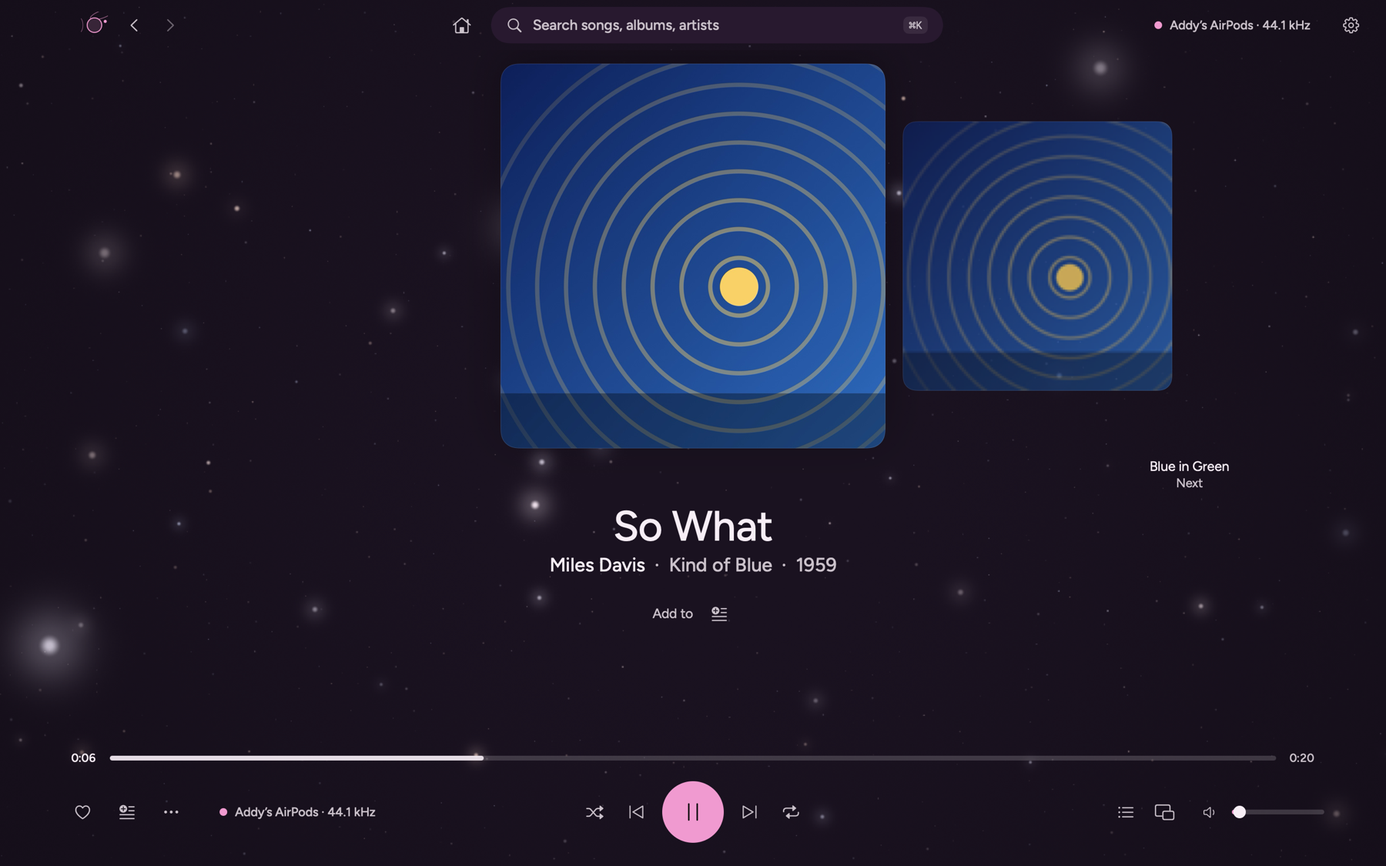
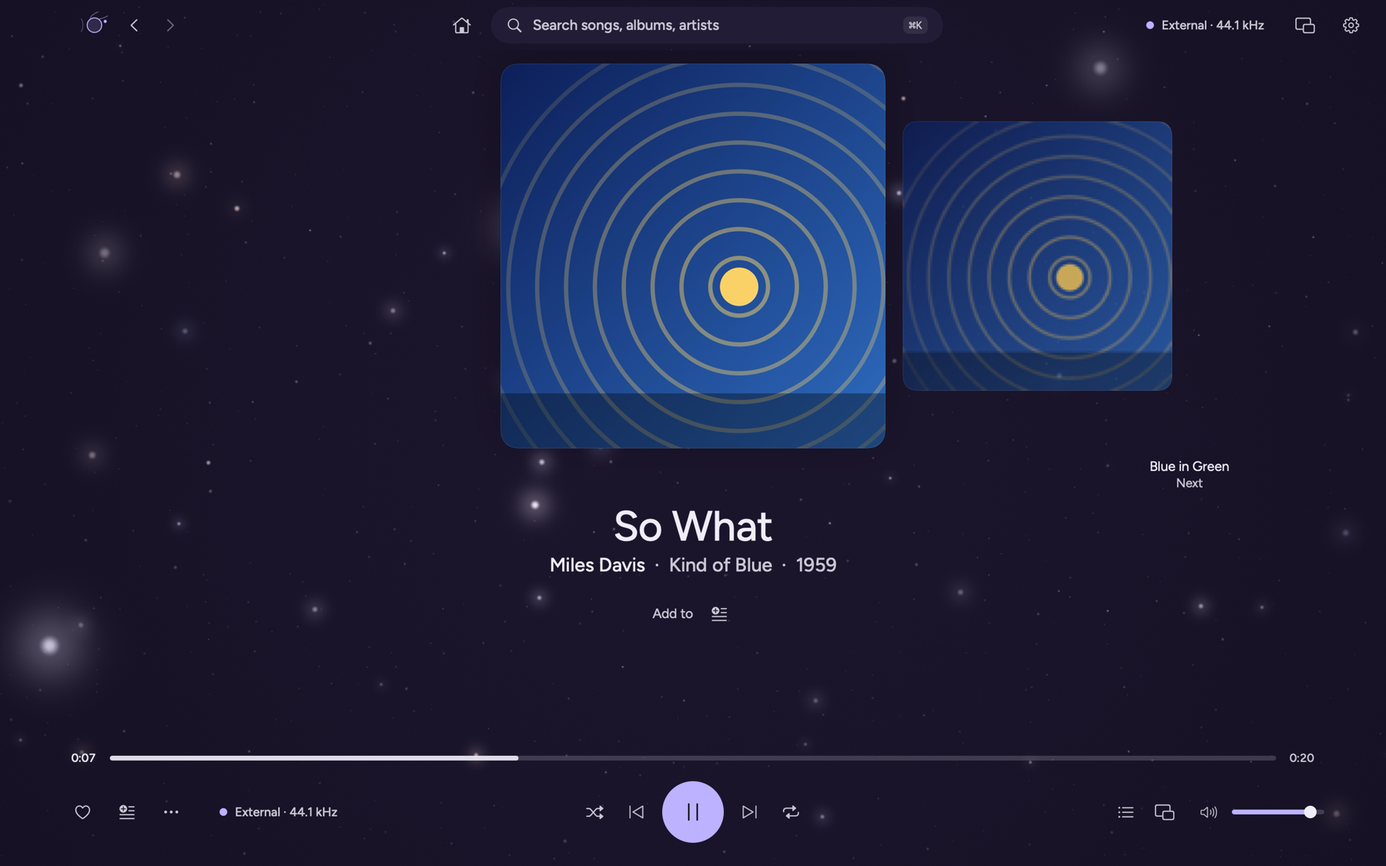
Docs and screenshots for the thirteen colours, the rail, pop-ups, seek bar and the mini player

diff --git a/Docs/PULSE-DESIGN.md b/Docs/PULSE-DESIGN.md
@@ -8,53 +8,89 @@ interface from the same numbers. On the Mac the values live in `Sources/Aureon/G
 
 | Part | Size / behaviour |
 |---|---|
-| Top bar | 56 pt. Window buttons, the mark, Back and Forward, **Home**, an always-visible search pill (460 wide, 38 high, ⌘K / Ctrl+K), the output chip (device and rate; opens the quick controls), Settings. |
-| Rail | 72 wide, five items: Library, Playlists, Radio, Rooms, Sound. A symbol over a 11 pt label; the selected item sits on a raised plate (radius 12). Home and Settings are not on the rail. |
+| Top bar | 56 pt. Window buttons, the mark, Back and Forward, **Home**, an always-visible search pill (460 wide, 38 high, ⌘K / Ctrl+K), the output chip (device and rate; opens the quick controls), the **Mini player** button (⌥⌘M) and Settings. On Now Playing it stays in view unless the listener turns on "Hide the controls when the pointer rests" (then it fades after 3.5 s without the pointer and returns on movement). |
+| Rail | 72 wide, six items: Library, Playlists, Radio, **Podcasts** (a microphone), Rooms, Sound. A symbol over a 11 pt label (items 60 × 58, 6 pt apart); the selected item sits on a raised plate (radius 12). Radio shows stations only; Podcasts is its own page. Home and Settings are not on the rail. |
 | Main panel | Rounded (16), on the window colour; the pages of a destination are pill chips along its top (Library: Albums, Artists, Songs, Composers, Works, Conductors, Ensembles, Folders, Deep Dive). |
 | Queue | A rounded panel (340 wide) beside the main panel with three tabs (a pill switch under the title): **Queue** (add, clear, drag to reorder, ⌫ removes), **History** (songs played since the app opened, newest first, 200 at most, a click plays one again, a trash button clears it) and **Output** (the device and its rate, then the steps Source → Player → Output from the signal path, and a link to the output settings). |
 | Player bar | 96 pt, three columns: cover 68 (radius 10), title 16 medium with the heart and add-to-playlist beside it, artist 14, format tags; transport (shuffle, previous, a 46 pt accent play circle, next, repeat) with a 5 pt slider; lyrics, queue, output, volume (96 wide). |
-| Now Playing | The whole window. The bar rests after 3.5 s without the pointer. Six layouts (below). |
+| Now Playing | The whole window. The top bar and the controls stay in view (a setting lets them rest after 3.5 s without the pointer). Six layouts (below). |
 
 Corners: panel 16, card 14, control 10, tag 6, pills fully round. Spacing on an 8 pt grid. Hairlines: the ink at 14 % (18 % on light themes).
 
 ## Colours
 
-Five **families**, each with a **dark** half and a **light** half. A family is chosen once; the **mode** (Dark, Light or Auto) picks the half; a **Pure black**
-switch puts any dark half on a black window. Every theme is five colours: window / panel / raised surface / ink / accent (hex).
+Thirteen **families**: a true-black **AMOLED** (dark only) and twelve colours, each with a **dark** half and a **light** half. A family is chosen once; the **mode**
+(Dark, Light or Auto) picks the half; a **Pure black** switch puts any dark half on a black window; one **Brightness** slider lightens or darkens the surfaces. The
+colours are one table (`ThemeTable.swift`); there is no code per theme. Each half is ten colours (hex).
 
-| Family | Dark: window | panel | raised | ink | accent | Light: window | panel | raised | ink | accent |
+**Dark halves**
+
+| Family | window | panel | raised | step 3 | line | text | secondary | tertiary | accent | on accent |
 |---|---|---|---|---|---|---|---|---|---|---|
-| Graphite (default) | 0C0C0E | 161619 | 222227 | F6F3EC | F2B84B | C0BEB6 | CBC9C1 | B5B3AA | 201D18 | 6A4300 |
-| Midnight | 080B14 | 0F1424 | 1A2036 | EEF2FF | 7FA6FF | B4BDCB | C2CAD6 | A6B0C0 | 121827 | 2F4F9E |
-| Forest | 0A110D | 111B15 | 1B2A21 | EEF4EA | 9ED38A | B9C0B2 | C5CCBE | ABB3A3 | 181D16 | 2B5436 |
-| Plum | 100A12 | 1A1220 | 28192F | F7EEF6 | F09AD0 | C4BBC9 | D0C8D5 | B6ACBC | 1E1424 | 7A2E6E |
-| Cocoa | 120D0A | 1D1511 | 2B201A | F6EEE6 | F0A36B | CAC0AC | D4CBB8 | BDB39E | 1E1913 | 7E3418 |
+| AMOLED | 000000 | 0A0A0C | 121215 | 1A1A1E | 26262B | F5F5F7 | ADB1B8 | 898C92 | 96C9FE | 06070A |
+| Graphite | 0D1014 | 161A1F | 1E2227 | 282C31 | 34383E | EDEEF1 | AFB1B5 | 84868B | 89C3FE | 141619 |
+| Midnight | 070F20 | 10192D | 172137 | 202B42 | 2C3850 | EAEFF8 | AAB1C0 | 7E8697 | 91C1FF | 0F1720 |
+| Ocean | 001319 | 011E24 | 06262D | 103038 | 1D3D45 | E6F1F3 | A4B5B9 | 768A8F | 28D6DF | 0A191A |
+| Forest | 061308 | 0E1E11 | 152619 | 1E3022 | 2B3D2E | EAF1EB | AAB4AB | 7E8A80 | 7BD77F | 111811 |
+| Mint | 01140E | 071E18 | 0E2720 | 183129 | 243E36 | E8F1EE | A7B5B0 | 7A8A85 | 51DAA7 | 0E1914 |
+| Plum | 180A16 | 231322 | 2C1B2B | 372435 | 443042 | F3ECF2 | B9ADB7 | 8F818D | F897E4 | 1C131A |
+| Violet | 110B20 | 1B152C | 231C36 | 2D2642 | 3A334F | EFEDF8 | B2AEC0 | 878397 | BCB2FF | 161421 |
+| Rose | 1B090D | 281217 | 31191F | 3C2329 | 4A2F35 | F6EBED | BDACAF | 948084 | FE9EAD | 1E1214 |
+| Ember | 1D0903 | 29120A | 331A11 | 3E231A | 4C3026 | F7ECE8 | BFADA7 | 95817A | FFA47A | 1F130D |
+| Cocoa | 180C05 | 23160D | 2D1E14 | 37271D | 443429 | F4EDE9 | B9AFA8 | 8F847C | F3AD66 | 1B150F |
+| Dune | 150E03 | 1F180A | 282111 | 322A1A | 3F3726 | F1EEE8 | B5B1A7 | 8B867A | DCBA5C | 19160E |
+| Slate | 091016 | 121B21 | 19232A | 222D34 | 2F3A41 | EBEFF2 | ACB2B7 | 80878D | 7AC8F5 | 12171A |
+
+**Light halves** (AMOLED has none: in Light mode it shows Graphite's light half)
+
+| Family | window | panel | raised | step 3 | line | text | secondary | tertiary | accent | on accent |
+|---|---|---|---|---|---|---|---|---|---|---|
+| Graphite | F4F7FB | EEF0F4 | E5E8EC | DCDEE2 | CBCED2 | 181B1F | 4A4D53 | 60636A | 0065B0 | F4F9FE |
+| Midnight | F3F7FE | E9F0FF | E1E8F8 | D7DEEE | C7CEDD | 121A2B | 424D64 | 58637B | 0061BE | F5F9FE |
+| Ocean | EAFAFE | E2F4F9 | DAECF0 | D0E2E6 | C0D1D6 | 061E24 | 365259 | 4C6970 | 007176 | F1FBFB |
+| Forest | EFFAF1 | E8F4EA | E0EBE2 | D6E1D8 | C6D1C8 | 111E14 | 415244 | 57695A | 01791E | F4FAF4 |
+| Mint | ECFBF5 | E5F4EF | DDECE6 | D3E2DD | C3D2CC | 0C1F19 | 3C534B | 516961 | 007654 | F3FBF7 |
+| Plum | FFF2FD | F8ECF7 | F0E3EE | E6D9E4 | D6C9D4 | 231522 | 594657 | 6F5C6D | 983488 | FDF6FB |
+| Violet | F7F5FF | F1EDFE | E9E5F7 | DFDBED | CECBDD | 1C172B | 4F4863 | 655E7B | 6649BE | F8F7FF |
+| Rose | FFF4F6 | FDEBEE | F5E3E6 | EBD9DC | DAC9CC | 271419 | 5F454A | 765B60 | AF234C | FFF6F7 |
+| Ember | FFF4F1 | FEECE5 | F6E3DD | ECD9D3 | DCC9C3 | 29150D | 61463C | 785C52 | A24100 | FFF6F3 |
+| Cocoa | FEF5EF | F9EEE7 | F0E5DF | E6DCD5 | D6CBC5 | 231810 | 59493F | 705F55 | 8E5300 | FDF7F2 |
+| Dune | FBF6EC | F5F0E5 | ECE7DD | E3DDD3 | D2CDC3 | 201A0D | 544C3C | 6A6252 | 7A6001 | FBF8F1 |
+| Slate | F1F8FD | EAF1F6 | E2E9EE | D8DFE4 | C8CFD4 | 141C21 | 444F56 | 5A656D | 006C97 | F2FAFE |
+
+Graphite is the default and opens in Dark with its own blue accent; each family's accent is its own until an accent is chosen. The picker lists AMOLED first, then the
+others in the order of the tables.
 
 Theme ids are the family name for the dark half (`graphite`), the name with `.light` for the light half (`graphite.light`) and the name with `.black` for the dark
-half on pure black (`graphite.black`). The light halves are named in the interface only as "the light side of Graphite" and so on.
+half on pure black (`graphite.black`; AMOLED is already black and has no such id).
 
 - **Mode.** *Dark* always shows the dark half, *Light* the light half, *Auto* follows the system's appearance and changes live when it changes (no restart). The
   order in Settings is Dark, Light, Auto. The command "Switch between light and dark" (⌘K) goes to the other half of the same family, with a soft circular reveal.
-- **Pure black** (a switch, off by default, shown above the colour tiles; it affects only the dark half, in Dark and in Auto at night). The window is `000000`; the
-  panel is the dark panel colour mixed 55 % towards black; the raised surface is the dark raised colour mixed 32 % towards black; ink and accent are unchanged, so the
-  family's tint stays. Resulting panel / raised: Graphite 0A0A0B / 17171B, Midnight 070910 / 121625, Forest 080C09 / 121D16, Plum 0C080E / 1B1120, Cocoa 0D0908 / 1D1612.
-- **Light brightness**: a slider from 0 to 1, 0.35 by default (the table). Above it the light surfaces are mixed towards white by `(b − 0.35) × 0.55`, below it
-  towards black by `(0.35 − b) × 0.2`. It is shown whenever the mode is Light or Auto. The light halves are muted on purpose: no light panel is brighter than a soft grey.
+- **Pure black** (a switch, off by default, shown above the colour tiles; it affects only the dark half, in Dark and in Auto at night; AMOLED is unaffected). The
+  window is `000000`; the panel is the dark panel colour mixed 55 % towards black, the raised surface 32 %, step 3 25 % and the line 20 %; the text and the accent are
+  unchanged, so the family's tint stays.
+- **Brightness** (one slider, −1 … +1, 0 is the design; it applies to every colour, dark and light). The window, panel, raised surface, step 3 and line all move by the
+  same amount of perceived lightness: `slider × 0.04` in OKLab L (the perceptual lightness of OKLCH), keeping each colour's hue and chroma. The window's lightness is
+  held to 0.10 … 0.26 in dark halves and 0.90 … 0.995 in light halves, and the step is halved until the text still reads at 7:1 on every surface. The text and the
+  accent never move. On a true-black window (AMOLED, or any dark half on pure black) the window stays #000000 and only the surfaces above it move: up by `slider × 0.03`
+  (down by `slider × 0.012`).
 - **Accent**: a free colour picker; each theme's own accent is used until one is chosen. Text in the accent is nudged until it reads at 4.5:1 on every surface
   (towards white on dark themes, towards black on light ones); the label on a solid accent is black or white, whichever reads better. The second end of an
   accent gradient is the same hue turned 4 % and 14 % darker.
 - **Secondary and tertiary text** are the ink at the lowest opacity that still gives 7:1 and 4.5:1 on every surface.
-- **Contrast is checked for every family in every mode**: dark, light at brightness 0, 0.35 and 1, and pure black, with the designed accent and with eight picked
-  hues. Ink must reach 6.5:1 on every surface, tertiary text and accent text 4.5:1, a solid accent's label 4.5:1, a designed accent 3:1 on its surfaces.
+- **Contrast is checked for every family in every mode and at the ends of the brightness slider** (and with eight picked accent hues, and on pure black). The table
+  itself must give: text 7:1 on the window and the surfaces, secondary text 4.5:1, tertiary text 3:1, the accent 3:1, the label on a solid accent 4.5:1; and the
+  derived text colours must reach 7:1 / 4.5:1 on every surface after any adjustment.
 - **Backdrop** per half of a family (the dark half and pure black share one): Flat, Soft (a quiet two-tone wash), Album (the cover, blurred) or Starlight. Dark
   halves open on Starlight, light halves on Soft. A cover-coloured veil on Full-bleed follows the theme's panel colour.
 - **A fresh install** opens in Graphite, Dark, with the designed accent.
-- **Settings page** (Settings → Appearance), top to bottom: Mode (Dark / Light / Auto), the Pure black switch, the colour tiles, Light brightness (when Light or Auto),
-  Accent, Density, Font and Text size, Backdrop, Page transitions, Scroll to change volume, Launch. Each colour tile is split down the middle: the dark half on the
-  left, the light half on the right, each a miniature of the shell (rail, panel, title, tag and player bar); the chosen family has an accent outline and a tick.
-- **Carried over from earlier builds** (the nine-theme model, applied once when no new choice is saved): Graphite → Graphite, Dark; AMOLED → Graphite, Dark with
-  Pure black; Midnight, Forest, Plum and Cocoa → the same family, Dark; Stone → Graphite, Light; Sage → Forest, Light; Paper → Cocoa, Light. If the old appearance was
-  Auto the mode stays Auto and the family is that of the old dark choice.
+- **Settings page** (Settings → Appearance), top to bottom: Mode (Dark / Light / Auto), the Pure black switch, the colour tiles, Brightness, Accent, Density, Font and
+  Text size, Backdrop, Page transitions, Scroll to change volume, Launch. Each colour tile is split down the middle (dark half on the left, light half on the right,
+  each a miniature of the shell: rail, panel, title, tag and player bar, drawn from the real colours and the current brightness); the chosen family has an accent
+  outline and a tick; AMOLED fills its tile and says "dark only".
+- **Carried over from earlier builds** (applied once when no new choice is saved): Graphite, Midnight, Forest, Plum and Cocoa keep their name; AMOLED is AMOLED; Stone →
+  Graphite, Light; Sage → Forest, Light; Paper → Cocoa, Light. If the old appearance was Auto the mode stays Auto and the family is that of the old dark choice. A saved
+  light-only brightness (0 … 1, 0.35 the old design) becomes the new slider position `(old − 0.35) × 2`.
 
 ## Type
 
@@ -109,8 +145,8 @@ leaves (it is then on the left), the volume slider shrinks to 60 %, then goes; t
 than the layout's design size) and what does not fit — lyrics, Up next, credits — shrinks or scrolls inside the body. The rule that must hold at every size and with
 lyrics on or off: the dock is inside the window and uncovered, and nothing in the body touches the dock, the tag row or the heart / playlist / More buttons.
 
-**Margins**: `max(28, 64 × scale)` left and right; the dock sits 14 × scale above the bottom edge. The bar of controls fades after 3.5 s without the pointer and
-returns on movement; the controls stay clickable while visible.
+**Margins**: `max(28, 64 × scale)` left and right; the dock sits 14 × scale above the bottom edge. The controls stay in view; with "Hide the controls when the pointer rests" on, they and the top
+bar fade after 3.5 s without the pointer and return on movement.
 
 - **Stage** (default): tabs **Lyrics / Up next / Credits / Signal path** across the top, 46 pt centred lyrics in the middle, the waveform seek bar, the song
   (cover 120, title 30) at the foot of the dock's left side. Lyrics off: credits at the left, a 420 cover with its names in the middle, up next at the right.
@@ -141,7 +177,7 @@ Five layouts: Compact bar 520 × 96, Thin strip 520 × 48, Card 380 × 620, Card
 others (an option), can follow to every desktop, remembers its place, and its opacity is a setting (40–100 %). Backgrounds: Solid, Gradient (from the cover's colour),
 Blur and glow; a strength slider. Live preview only while that settings page is open. The menu bar item shows the logo, the logo and title, or the title; the popover
 opens on click or on hover, closes on a click elsewhere, closes by itself after Never / 3 / 5 / 10 / 30 s (5 by default) and waits while the pointer is over it.
-*Mac only*: the menu bar item; on Windows the same popover belongs to the notification area.
+*Mac only*: the menu bar item; on Windows the same popover belongs to the notification area. The app must keep running while the mini player is the only thing on screen (the main window is put away, not closed). Position: remembered for each display, by the display's identity; the window is kept wholly on the screen it is mostly on (after a drag and at the next open). A drag starts on the cover, the names or any empty space; buttons, the seek bar and the volume have their own gestures and never move the window.
 
 ## Memory
 
@@ -155,10 +191,24 @@ display**; the output device; the theme and look; the Now Playing layout; the mi
 - **Windows**: a native application with the same tokens, layouts and behaviours; the web interface is not the design. Window glass and the menu bar item map to
   the platform's equivalents (acrylic, the notification area).
 
+## Pop-ups
+
+Every pop-up (the output list from the top bar, the player bar and Now Playing; Add to playlist; shuffle; quality details; folder actions; speaker set-up; DSP
+plug-ins; the DJ layout; Home's "Why these?") is a card drawn inside the window, never a separate window that could hang over the desktop. It opens on the preferred
+side of its button (above for the player bar, below for the top bar), flips to the other side when there is no room, is moved so that all of it is inside the window
+(8 pt margin), and scrolls inside the window when it is taller than the window. One is open at a time; a click anywhere else, or Escape, closes it. Card: the panel
+colour, a hairline, radius 14, a soft shadow.
+
+## Seek bar
+
+One choice in Settings → Now Playing → Seek bar applies to every seek bar (player bar, mini player, every Now Playing layout): *Layout's own* (each place keeps its
+style), *Waveform* (a waveform replaces the thin track where there is one; places that already draw a waveform keep theirs) or *Line* (the thin 5 pt track with a 13 pt
+thumb everywhere). It changes at once. Pressing or dragging on the bar seeks; the scroll wheel nudges.
+
 ## Settings pages
 
-Settings has a search field and nine pages: General, **Appearance** (colours, accent, density, type, backdrop, motion, volume scrolling, launch), **Now Playing**
-(layout previews, lyrics: show, size, timing, lookup choices; what else shows: Add to playlist button, credits, signal path and tags, seek bar style), **Mini player**
+Settings has a search field and nine pages: General, **Appearance** (mode, pure black, the colours, brightness, accent, density, type, backdrop, motion, volume scrolling, launch), **Now Playing**
+(layout previews, lyrics: show, size, timing, lookup choices; what else shows: Add to playlist button, credits, signal path and tags, whether the controls rest, seek bar style), **Mini player**
 (form, background, strength, opacity, always on top, every desktop, remember place, keep floating, hide the Aureon window; menu bar item and popover timing),
 **Startup & memory** (resume mode and what is remembered), Pages (which pages are on the rail), Connect, MIDI and System.
 

diff --git a/README.md b/README.md
@@ -32,7 +32,7 @@ switch them on; when they are off they are out of the path, not set to neutral.
 |  |  |  |
 |:--|:--|:--|
 | **Bit-perfect by default**<br/>FLAC, ALAC, WAV and AIFF at their native rate and depth, gapless, with exclusive mode and automatic rate switching. | **Sound shaping, opt-in**<br/>Sinc upsampling, PCM→DSD up to DSD512, EQ, AutoEQ, crossfeed, room correction and dither. | **Signal path**<br/>Shows every stage, and marks the first one that changes a sample. |
-| **New interface**<br/>Five colours in dark and light, six Now Playing layouts, a mini player and a menu bar player. | **Speaker levelling**<br/>Each output gets a job, a level and a delay, and the levels follow the volume. | **DJ console**<br/>Two decks, BPM and key detection, loops, hot cues, effects, crossfader, headphone cue and MIDI controllers. |
+| **New interface**<br/>Thirteen colours in dark and light, with a true-black AMOLED, six Now Playing layouts, a mini player and a menu bar player. | **Speaker levelling**<br/>Each output gets a job, a level and a delay, and the levels follow the volume. | **DJ console**<br/>Two decks, BPM and key detection, loops, hot cues, effects, crossfader, headphone cue and MIDI controllers. |
 
 <br/>
 
@@ -40,10 +40,10 @@ switch them on; when they are off they are out of the path, not set to neutral.
 
 | | |
 |:--|:--|
-| **New design** | A new shell with a search bar, an output chip and a rail of five places. Set in Figtree, with Compact and Comfortable density. |
-| **Colours** | Graphite, Midnight, Forest, Plum and Cocoa, each in dark and light. **Dark**, **Light** or **Auto** (follows macOS), a **Pure black** switch for OLED, any accent colour, and the Starlight backdrop. |
+| **New design** | A new shell with a search bar, an output chip and a rail of six places (Library, Playlists, Radio, Podcasts, Rooms, Sound). Set in Figtree, with Compact and Comfortable density. |
+| **Colours** | A true-black **AMOLED** and twelve colours (Graphite, Midnight, Ocean, Forest, Mint, Plum, Violet, Rose, Ember, Cocoa, Dune, Slate), each in dark and light. **Dark**, **Light** or **Auto** (follows macOS), a **Pure black** switch, one **Brightness** slider, any accent colour, and the Starlight backdrop. |
 | **Now Playing** | Six layouts (Stage, Classic, Full-bleed, Carousel, Lumen, Chillax) with the transport, seek bar, queue and volume always in view. Add to playlist, credits, large synced lyrics. |
-| **Mini player** | A floating player in five forms, dragged by its body, that takes the place of the main window, and a menu bar player with a popover. |
+| **Mini player** | A floating player in five forms, dragged from anywhere on it, that takes the place of the main window, and a menu bar player with a popover. |
 | **Memory** | Reopens with your queue, song and position, page, window place on each display, output, theme and layout. |
 | **Home and Folders** | A Home that follows the time of day, and a Folders page that can remove a library folder safely. |
 | **Queue** | Queue, History and Output in one panel. |
@@ -64,7 +64,7 @@ The full list, with fixes, is in the [release notes](RELEASE-NOTES-0.4.0.md).
 <td width="50%"><img src="Docs/images/pulse/now-playing-carousel.png" alt="Now Playing in the Carousel layout" /><br/><sub><b>Carousel.</b> The cover among its neighbours.</sub></td>
 </tr>
 <tr>
-<td width="50%"><img src="Docs/images/pulse/settings-appearance.png" alt="Settings, Appearance: mode, pure black and the five colour families" /><br/><sub><b>Appearance.</b> Dark, Light or Auto, Pure black, and five colours shown in both halves.</sub></td>
+<td width="50%"><img src="Docs/images/pulse/settings-appearance.png" alt="Settings, Appearance: mode, pure black and the colour families" /><br/><sub><b>Appearance.</b> Dark, Light or Auto, Pure black, AMOLED and twelve colours shown in both halves, and one brightness slider.</sub></td>
 <td width="50%"><img src="Docs/images/pulse/queue-light.png" alt="The queue panel with Queue, History and Output tabs" /><br/><sub><b>Queue.</b> With History and Output beside it.</sub></td>
 </tr>
 </table>
@@ -109,14 +109,14 @@ takes no locks and sends no Swift or Objective-C messages. See [Docs/ARCHITECTUR
 
 | | |
 |:--|:--|
-| **Shell** | A search bar (⌘K reaches every page and main action), the output chip, and a rail of five places: Library, Playlists, Radio, Rooms and Sound. A quick control panel opens from the output chip (⌥⌘D). |
-| **Colours** | Five families (Graphite, Midnight, Forest, Plum, Cocoa), each with a dark and a soft light side. **Dark**, **Light** or **Auto**, **Pure black** for any dark side, any accent colour, and a brightness control for the light sides. |
+| **Shell** | A search bar (⌘K reaches every page and main action), the output chip, the mini player button and Settings across the top, and a rail of six places: Library, Playlists, Radio, Podcasts, Rooms and Sound. A quick control panel opens from the output chip (⌥⌘D); every pop-up opens inside the window and never over its edge. |
+| **Colours** | A true-black **AMOLED** and twelve families (Graphite, Midnight, Ocean, Forest, Mint, Plum, Violet, Rose, Ember, Cocoa, Dune, Slate), each with a dark and a light side. **Dark**, **Light** or **Auto**, **Pure black** for any dark side, one **Brightness** slider that lightens or darkens the surfaces in every colour (text and accent stay put), and any accent colour. |
 | **Backdrops** | Flat, Soft, **Album** (colours from the playing cover, at Subtle, Rich or Vivid) and **Starlight**, a field of fine stars with settings for intensity, motion, shooting stars and twinkle. |
 | **Type** | Figtree, bundled with its licence, in Light, Regular or Medium, with a text size from 85 % to 130 %, and Compact or Comfortable density. |
-| **Now Playing** | Six layouts with a preview of each in Settings: Stage, Classic, Full-bleed, Carousel, Lumen and Chillax. The transport, seek bar, queue, mini player, volume and output chip stay in view at every window size. |
+| **Now Playing** | Six layouts with a preview of each in Settings: Stage, Classic, Full-bleed, Carousel, Lumen and Chillax. The transport, seek bar, queue, mini player, volume and output chip stay in view at every window size, and a setting lets them rest after a few seconds. The seek bar can be the layout's own, a waveform or a line, everywhere. |
 | **Lyrics** | Large, time-synced lines in every layout, from a `.lrc` file, the file's tags or LRCLIB. Their size and ±2 s timing are in Settings. |
 | **Song details** | Add to playlist, credits under the artist, format tags (Lossless, FLAC, 24-bit, rates, shared or exclusive) and the signal path. |
-| **Mini player** | Five forms: a bar, a strip, a card, a card with lyrics and a menu bar popover. Dragged by its body; opening it puts the main window away. |
+| **Mini player** | Five forms: a bar, a strip, a card, a card with lyrics and a menu bar popover. Dragged from the cover, the names or any empty space, and kept wholly on a screen; its place is remembered for each display. Opening it puts the main window away. |
 | **Menu bar** | The logo, the logo and title, or the title; a popover that opens on a click or on hover and closes by itself. |
 | **Home** | Follows the part of the day, with quick picks and shelves chosen on your Mac from what you play. |
 | **Queue** | Queue, History and Output tabs. |

diff --git a/RELEASE-NOTES-0.4.0.md b/RELEASE-NOTES-0.4.0.md
@@ -4,7 +4,7 @@
 
 # Aureon 0.4.0
 
-**A new design: five colours in dark and light, six Now Playing layouts, a mini player and menu bar player, and an app that remembers where you were.**
+**A new design: thirteen colours in dark and light, a true-black AMOLED, six Now Playing layouts, a mini player and menu bar player, and an app that remembers where you were.**
 
 <img src="https://github.com/retrohog/Aureon/raw/main/Docs/images/pulse/now-playing-stage.png" alt="Now Playing in Aureon 0.4.0" width="100%" />
 
@@ -20,9 +20,11 @@ always shows which state you are in.
 
 ### A new design
 
-- **A new shell.** A search bar and the output chip across the top, a rail of five places (Library, Playlists, Radio, Rooms, Sound), rounded panels, and a player bar with the cover, title, tags, transport and volume.
-- **Five colours, each in dark and light.** Graphite, Midnight, Forest, Plum and Cocoa. Every colour has a dark side and a soft light side; choose **Dark**, **Light** or **Auto**, which follows macOS as it changes. A **Pure black** switch puts any dark side on a true black window for OLED screens.
-- **Accent colour.** Pick any colour; text in it is kept readable on every surface. The light sides have a brightness control.
+- **A new shell.** A search bar, the output chip, the mini player button and Settings across the top, a rail of six places (Library, Playlists, Radio, Podcasts, Rooms, Sound), rounded panels, and a player bar with the cover, title, tags, transport and volume. **Podcasts** has its own place under Radio.
+- **Thirteen colours, each in dark and light.** A true-black **AMOLED** (dark only) and twelve colours: Graphite, Midnight, Ocean, Forest, Mint, Plum, Violet, Rose, Ember, Cocoa, Dune and Slate. Choose **Dark**, **Light** or **Auto**, which follows macOS as it changes. A **Pure black** switch puts any dark side on a true black window.
+- **One brightness slider** lightens or darkens the surfaces of every colour, dark and light; the text and the accent do not move and stay readable. AMOLED keeps its black window.
+- **Accent colour.** Pick any colour; text in it is kept readable on every surface.
+- **Pop-ups stay inside the window.** The output list, Add to playlist and the other pop-ups are placed by their button and kept wholly in view, scrolling when the window is small.
 - **Starlight.** A slow field of fine stars behind the pages on dark themes, with intensity, motion, shooting stars and twinkle under your control. Flat, Soft and Album backdrops are still there.
 - **Figtree.** The interface is set in Figtree, bundled with its licence (SIL Open Font License), in Regular by default. Light and Medium are a choice, and so is the text size.
 - **Density.** Compact is the default and Comfortable gives lists and covers more room. It lives in Settings → Appearance.
@@ -34,13 +36,15 @@ always shows which state you are in.
 - **Six layouts**, chosen in Settings → Now Playing with a preview of each: **Stage**, **Classic**, **Full-bleed**, **Carousel**, **Lumen** and **Chillax**. Each is drawn for a large window and scales down to a small one.
 - **The controls are always there.** Shuffle, previous, play or pause, next and repeat; the seek bar with both times; the queue, the mini player, the volume and the output chip stay in view in every layout, down to the smallest window. Lyrics and Up next give way first.
 - **Lyrics** stay large and follow the sung line. Their size and timing are in Settings → Now Playing, so nothing floats over the words.
+- **The controls stay in view.** The top bar and the controls no longer fade away; Settings → Now Playing has a switch to let them rest after a few seconds.
+- **Seek bar choice.** Settings → Now Playing → Seek bar (the layout's own, a waveform or a line) now applies to the player bar, the mini player and every layout.
 - **Add to playlist** from the song on screen: a card with a search, **New playlist**, and a tick beside each playlist that holds the song.
 - **Credits** under the artist (written by, produced by, conductor, ensemble, instruments), the format tags and the signal path, each switchable.
 - **Up next** pictures load ahead of time, so the covers are there when the list opens.
 
 ### Mini player and menu bar
 
-- **A mini player** in five forms: a compact bar, a thin strip, a card, a card with lyrics, and a menu bar popover. Drag it by its body. Opening it puts the main window away and bringing the main window back puts the mini player away, as in other music apps.
+- **A mini player** in five forms: a compact bar, a thin strip, a card, a card with lyrics, and a menu bar popover. Drag it from the cover, the names or any empty space; it stays wholly on a screen and remembers its place for each display. Opening it puts the main window away and bringing the main window back puts the mini player away, as in other music apps.
 - It can stay above other windows, follow you to every desktop, and remember its place. Its background is solid, a gradient from the cover or a blur, and its opacity is yours to set.
 - **A menu bar player** shows the logo, the logo and title, or the title. The popover opens on a click or on hover and closes by itself after a time you choose.
 
@@ -55,7 +59,10 @@ always shows which state you are in.
 
 ## Fixes
 
-- The output list on Now Playing no longer closes the moment it opens.
+- The app no longer quits when you switch to the mini player.
+- Settings no longer jump back to the top when you change something.
+- The output list opens inside the window, on every page, and no longer closes the moment it opens on Now Playing.
+- The seek bar choice in Settings is applied everywhere.
 - Lyrics controls no longer overlap the format tags or the buttons beside the title, in any layout.
 - Every Now Playing layout keeps its bottom controls at small window sizes.
 - Shuffle and repeat show clearly when they are on.

diff --git a/Docs/FEATURES.md b/Docs/FEATURES.md
@@ -278,12 +278,13 @@ A two-deck console on one mixer clock.
 
 ## 13. User interface
 
-- **Shell.** A top bar with Back / Forward (⌘[ ⌘]), Home, an always-visible search (⌘K reaches every page, every Sound tab, the colours and the main actions), the output chip and Settings; a rail of five places (Library, Playlists, Radio, Rooms, Sound); rounded panels; and a player bar with the cover, title, heart and Add to playlist, format tags, transport, seek bar, lyrics, queue, output and volume. See [the design](PULSE-DESIGN.md) for every size and rule.
-- **Colours.** Five families (Graphite, Midnight, Forest, Plum, Cocoa), each with a dark half and a softened light half. **Dark**, **Light** or **Auto** (follows macOS as it changes), a **Pure black** switch that puts any dark half on a true black window, a brightness control for the light halves and any accent colour. Text contrast follows WCAG ratios on every family, mode and backdrop.
+- **Shell.** A top bar with Back / Forward (⌘[ ⌘]), Home, an always-visible search (⌘K reaches every page, every Sound tab, the colours and the main actions), the output chip, the mini player button and Settings; a rail of six places (Library, Playlists, Radio, Podcasts, Rooms, Sound); rounded panels; and a player bar with the cover, title, heart and Add to playlist, format tags, transport, seek bar, lyrics, queue, output and volume. See [the design](PULSE-DESIGN.md) for every size and rule.
+- **Colours.** A true-black **AMOLED** (dark only) and twelve families (Graphite, Midnight, Ocean, Forest, Mint, Plum, Violet, Rose, Ember, Cocoa, Dune, Slate), each with a dark half and a light half, all from one table. **Dark**, **Light** or **Auto** (follows macOS as it changes), a **Pure black** switch that puts any dark half on a true black window, one **Brightness** slider that moves the surfaces of every colour by perceived lightness (text and accent stay put; AMOLED keeps #000000) and any accent colour. Text contrast follows WCAG ratios on every family, mode, brightness and backdrop.
+- **Pop-ups.** Every pop-up (the output list, Add to playlist, shuffle and the rest) is drawn inside the window, placed by its button, flipped and kept wholly in view, and scrolls when the window is small.
 - **Backdrops.** Flat, Soft, **Album** (colours from the cover that is playing, at Subtle, Rich or Vivid, rendered once off the main thread and cross-faded on a track change) and **Starlight** (a Metal field of fine stars with settings for intensity, motion, shooting stars, twinkle and tint).
 - **Type and density.** Figtree (SIL Open Font License, bundled with its licence) in Light, Regular or Medium, a text size from 85 % to 130 %, and Compact or Comfortable density.
 - **Now Playing.** Six layouts chosen in Settings with a preview of each: Stage, Classic, Full-bleed, Carousel, Lumen and Chillax. In every layout the transport, the seek bar with both times, the queue, the mini player, the volume and the output chip stay in view at any window size; lyrics and Up next shrink first. Large synced lyrics (their size and timing are in Settings), Add to playlist, credits, format tags and the signal path.
-- **Mini player and menu bar.** Five forms (bar, strip, card, card with lyrics, menu bar popover), dragged by its body; opening it puts the main window away and the main window's return puts it away. It can stay above other windows, follow you to every desktop and remember its place; solid, gradient or blur background, adjustable opacity. The menu bar item shows the logo, the logo and title, or the title; its popover opens on a click or on hover and closes by itself.
+- **Mini player and menu bar.** Five forms (bar, strip, card, card with lyrics, menu bar popover), dragged from the cover, the names or any empty space (kept wholly on a screen, remembered for each display); opening it puts the main window away and the main window's return puts it away. It can stay above other windows, follow you to every desktop and remember its place; solid, gradient or blur background, adjustable opacity. The menu bar item shows the logo, the logo and title, or the title; its popover opens on a click or on hover and closes by itself.
 - **Memory.** The queue and the song with its place, the page and its scroll position, the window's size and place on each display, the output device, the colours and layout, and the mini player are restored. Playback resumes Paused (default), Playing, after asking, or not at all; the volume is never restored.
 - **Home.** A greeting for the part of the day, quick picks and shelves (Back in rotation, Hi-Res you haven't heard, New in your library, Because you play…, a mood for the hour) ranked on the Mac from play counts and times; **Why these?** shows the reasons and **Refresh mix** draws again.
 - **Folders.** Every library folder with its status and song count, Rescan, and Remove (asks first; files are left alone).
